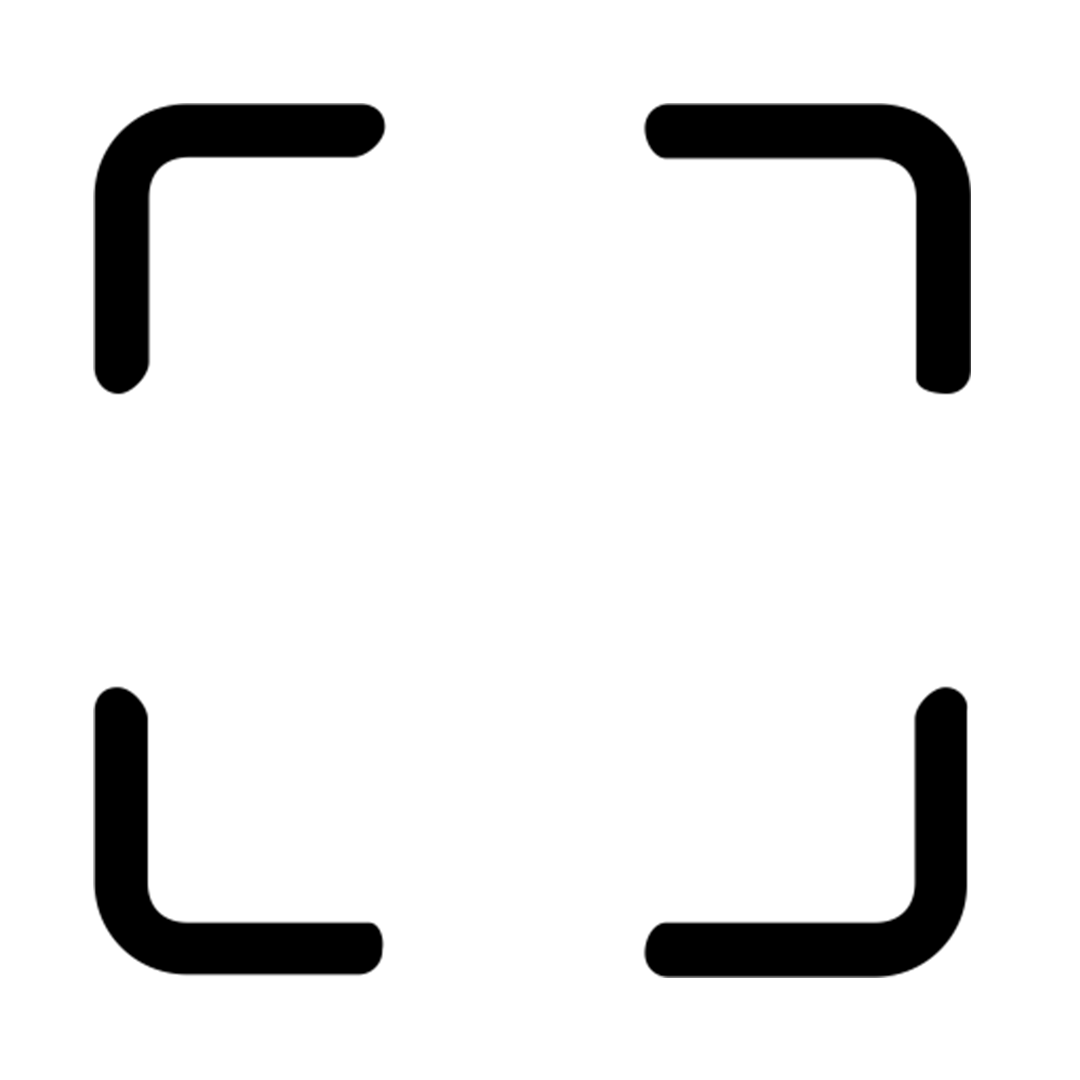
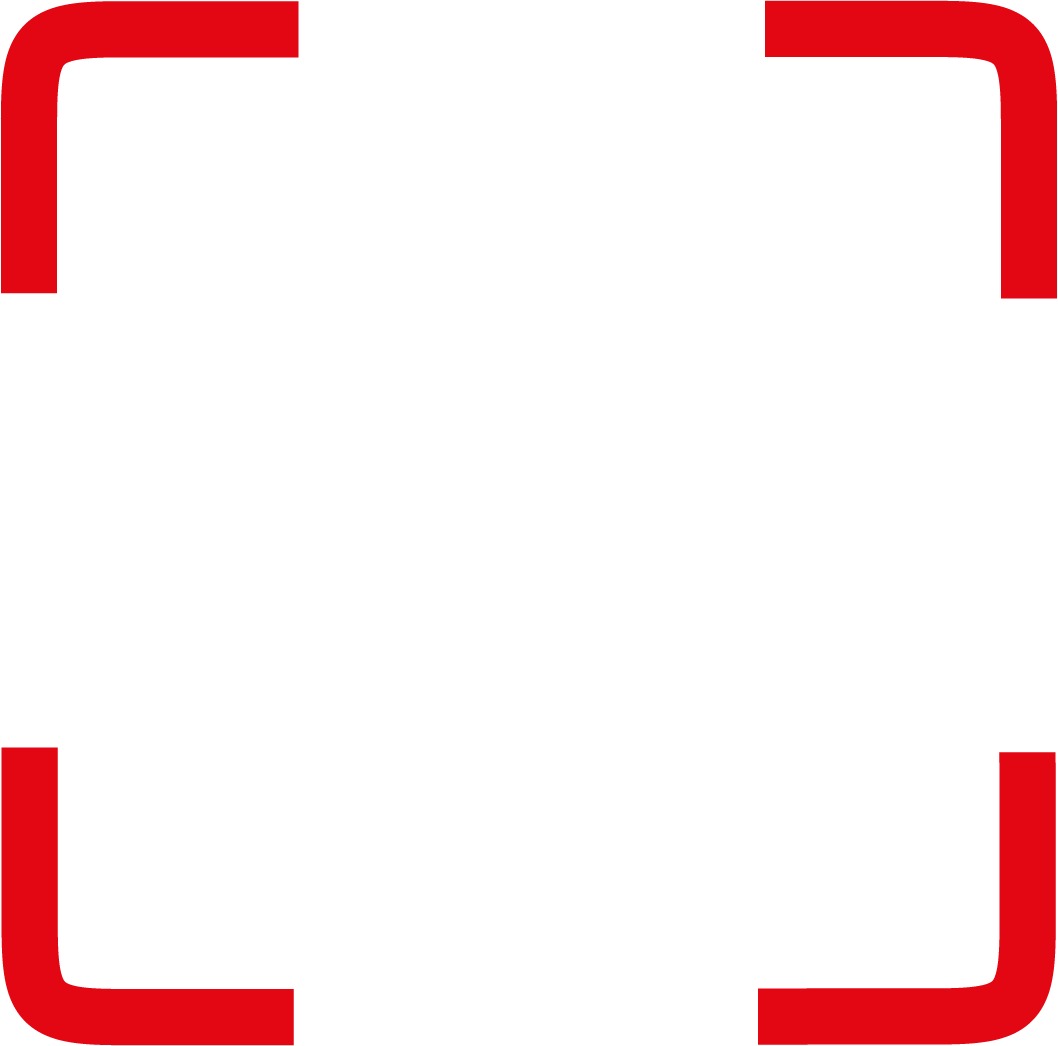
scanner geupdate en backbutton geadd

diff --git a/scanner.html b/scanner.html
@@ -6,15 +6,16 @@
         <link rel="stylesheet" href="CSS/scanner.css">
         <script src="https://ajax.googleapis.com/ajax/libs/jquery/3.3.1/jquery.min.js"></script>
         <script type="module" src="js/scanner.js"></script>
+        <script src="js/back-button.js"></script>
     </head>
     <body class="clearfix">
         <h1>QR-code</h1>
+        <p id="detectedCode">Detected QR code: <br>
+        <span id="cam-qr-result">None</span></p>
+        <a href="#" id="back-button"><img src="Images/back.png" alt="back button" id="back"></a>
         <div class="qr-scanner"> 
             <img src="Images/qr-scanner.png" alt="qr-scanner" id="scanner">
             <video muted playsinline id="qr-video"></video>
         </div>
-
-        <p id="detectedCode">Detected QR code:
-        <span id="cam-qr-result">None</span></p>
     </body>
 </html>

diff --git a/CSS/scanner.css b/CSS/scanner.css
@@ -8,27 +8,46 @@
     width: 100%;
 }
 
+a{
+    text-decoration: none;
+}
+
 h1{
     font-family: "Bebas";
-    font-size: 4em;
+    font-size: 8em;
     position: absolute;
     z-index: 1;
+    padding-top: 2vh;
 }
 
 
 #scanner{
     position: absolute;
     z-index: 1;
-    width: 100%;
+    width: 75%;
+    margin-left: 12.5%;
+    margin-right: 12.5%;
     margin-top: 22vh; 
 }
 
 #detectedCode{
     position: absolute;
     z-index: 1;
-    padding-top: 65vh;
+    padding-top: 93vh;
     font-family: "Bebas";
-    font-size: 2em;
+    font-size: 3em;
+}
+
+#back-button{
+    text-align: center;
+}
+
+#back{
+    width: 150px;
+    position: absolute;
+    z-index: 1;
+    margin-top: 83vh;
+    left:  42.4vw;   
 }
 /* CLEARFIX */
 .clearfix::after {

diff --git a/js/back-button.js b/js/back-button.js
@@ -1,0 +1,5 @@
+$(function() {
+    $("#back-button").on("click", function(){
+        window.history.back();
+    })
+});
